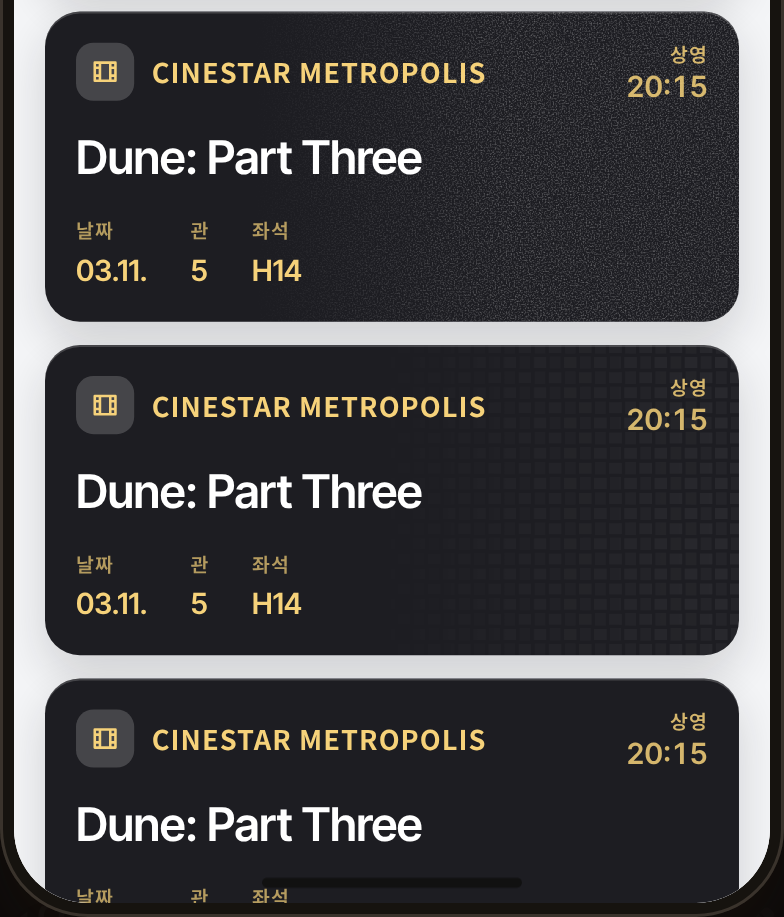
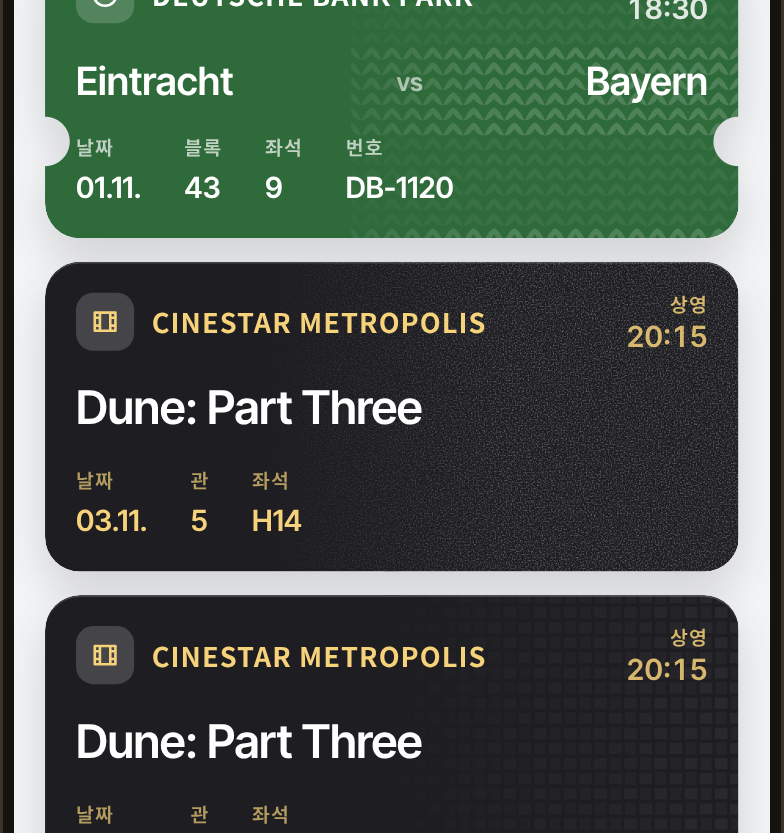
Wallet passes: no notches on the cinema ticket (draft, not approved yet)
Claude-Session: https://claude.ai/code/session_01TBUyc4nvbfrUF2uL1hRtAL

diff --git a/src/phonemoney.js b/src/phonemoney.js
@@ -569,8 +569,8 @@ function cardArt(p, c) {
 const PASS = { flight: ['#2c4a80', 'plane', '탑승'], train: ['#8e3a33', 'train', '열차'], hotel: ['#efe2cf', 'bed', '체크인'], concert: ['#26304f', 'ticket', '입장'],
     movie: ['#1d1d22', 'film', '상영'], match: ['#2f6a3a', 'ball', '킥오프'], museum: ['#f3ede4', 'museum', '관람'], bus: ['#2f6f8f', 'bus', '출발'], ferry: ['#24505c', 'ship', '출항'], theater: ['#6a2a3e', 'mask', '개막'], park: ['#8a5a2e', 'wheel', '개장'], membership: ['#2e5e57', 'card', '유효'], other: ['#3d4a66', 'ticket', '시간'] };
 const LIGHT = new Set(['hotel', 'museum']);
-// a tear-off ticket gets the notches; a booking (the hotel) or a card (the membership) does not
-const NOTCHED = new Set(['flight', 'train', 'bus', 'ferry', 'concert', 'theater', 'movie', 'match', 'museum', 'park', 'other']);
+// a tear-off ticket gets the notches; a booking (the hotel), a card (the membership) and the dark cinema ticket do not
+const NOTCHED = new Set(['flight', 'train', 'bus', 'ferry', 'concert', 'theater', 'match', 'museum', 'park', 'other']);
 // one accent per kind for the light and the single bright touch in its drawing
 const PASS_ACC = { flight: '#a9c4f0', train: '#f2b6a6', bus: '#a8e0f2', ferry: '#9fe0dc', hotel: '#8a5a2a', concert: '#c9b8ff', theater: '#f2b8c8', movie: '#f0c96a', match: '#bfe6a0', museum: '#7a5a3a', park: '#ffd28a', membership: '#a8dccc', other: '#c3cde0' };
 Object.assign(AX, { film: 'M4 5h16v14H4zM8 5v14M16 5v14M4 9h4M4 15h4M16 9h4M16 15h4', ball: 'M12 3a9 9 0 1 0 0 18 9 9 0 0 0 0-18zM12 7l4 3-1.5 5h-5L8 10z', museum: 'M3 9l9-5 9 5M5 9v9M9 9v9M15 9v9M19 9v9M3 20h18', bus: 'M6 4h12a2 2 0 0 1 2 2v10H4V6a2 2 0 0 1 2-2zM4 11h16M7 19v-3M17 19v-3M8 14h.01M16 14h.01',
